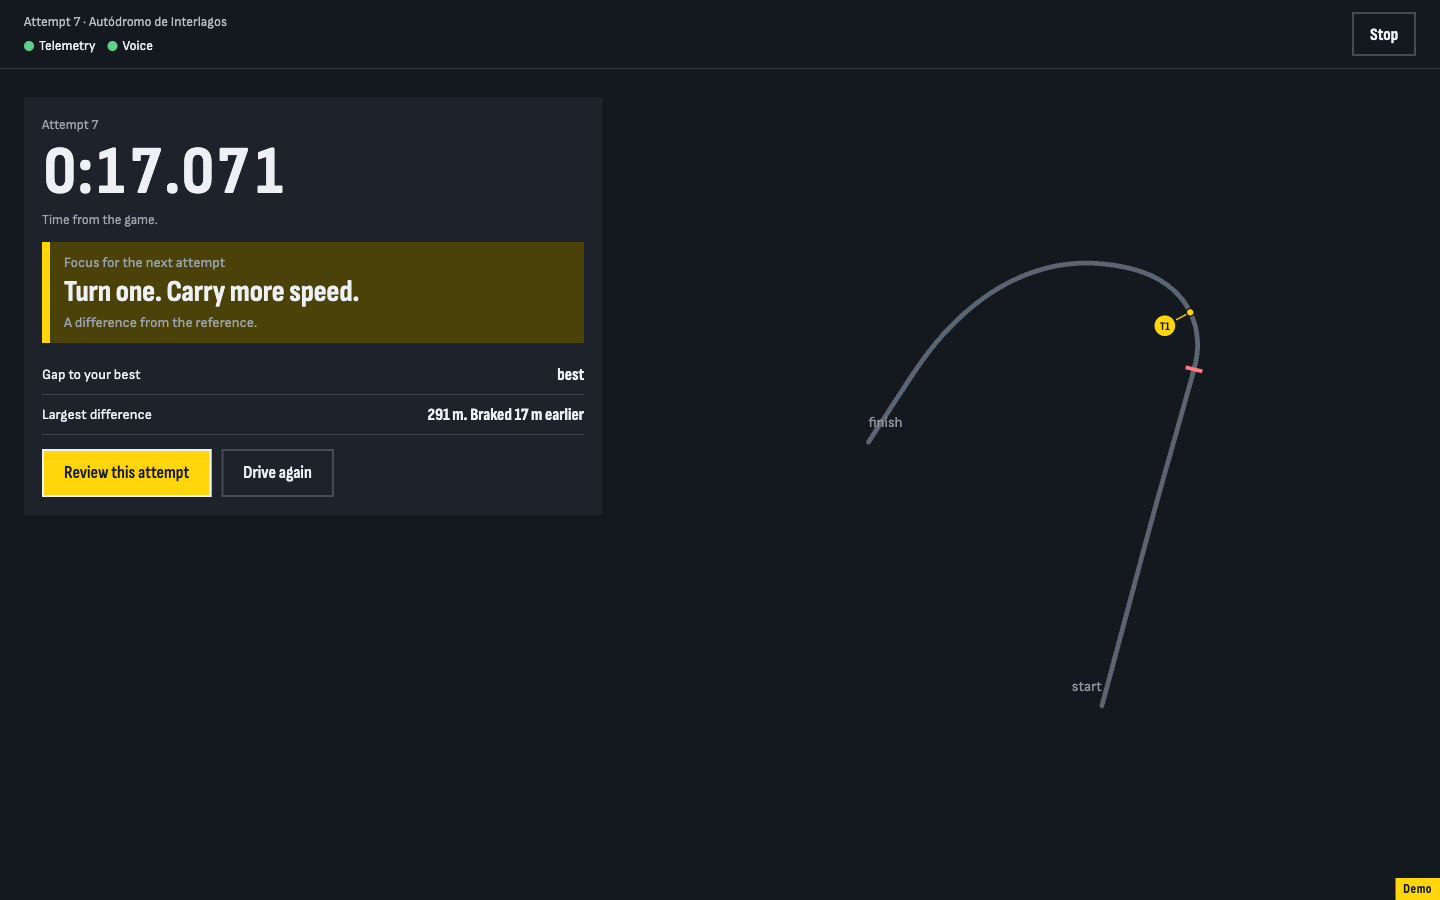
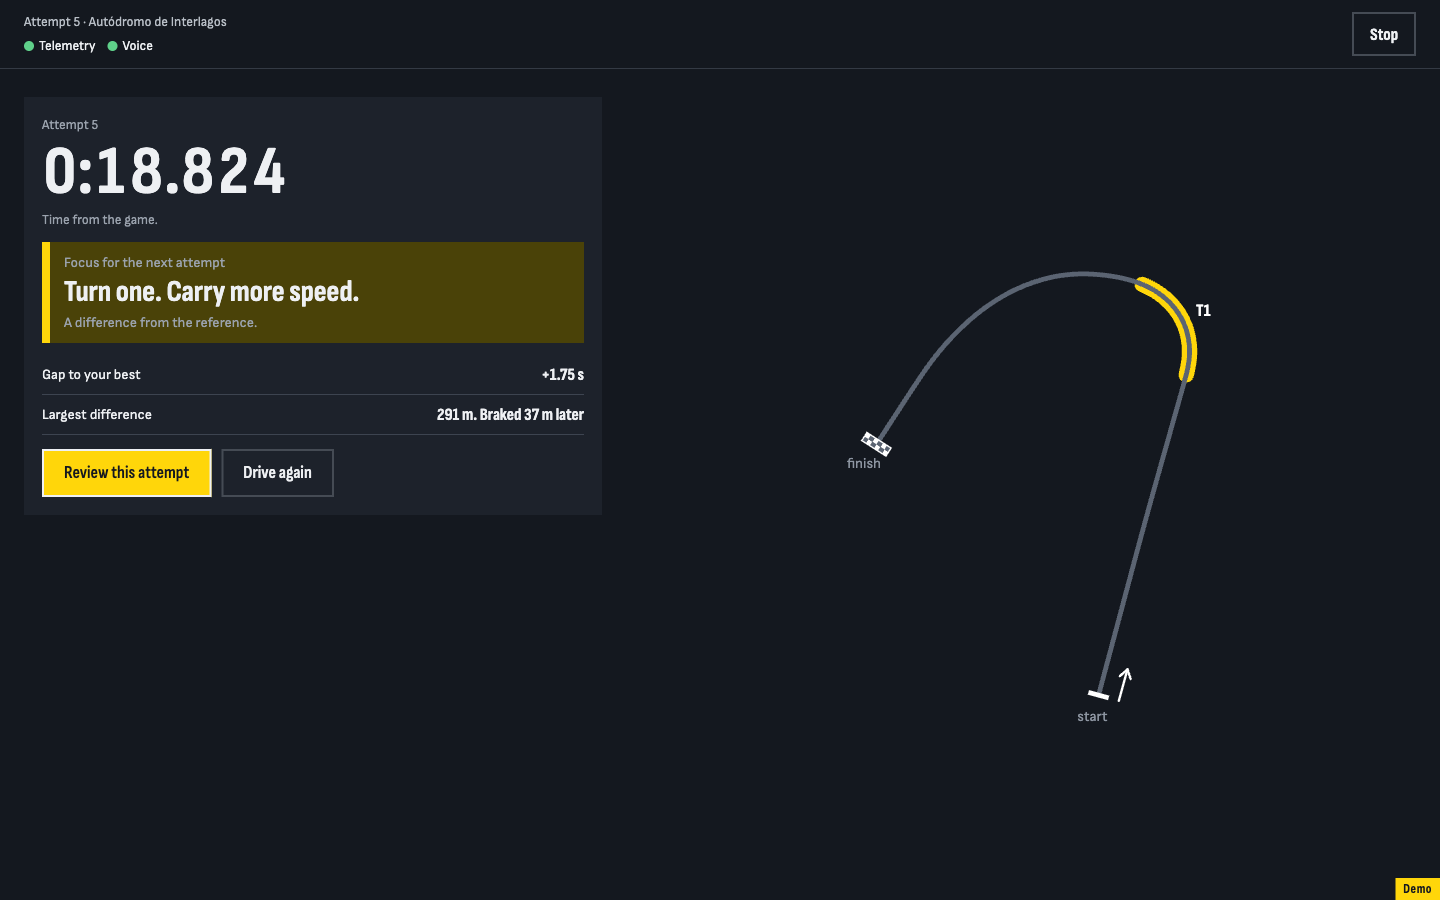
docs: show the new cue words, turn bands and track ends

diff --git a/site/index.html b/site/index.html
@@ -30,7 +30,7 @@
           <img src="assets/brand/logo-light-600.png" alt="GT7 Tutor" width="300" height="67">
         </picture>
       </p>
-      <h1><span>Hard brake.</span> <span>Full throttle.</span> <span>Tighter.</span></h1>
+      <h1><span>Hard brake.</span> <span>Full throttle.</span> <span>Closer to apex.</span></h1>
       <p class="lede">GT7 Tutor listens to your PS5 while you drive a Gran Turismo 7 exercise and calls the next action, about half a second before the place where the game's own demonstration does it. Afterwards it shows where your drive is different from that demonstration.</p>
       <div class="actions">
         <a class="button" data-link="github-setup" href="https://github.com/alex-yurchenko-85/gt7-tutor#what-you-need">Read the setup guide</a>
@@ -48,12 +48,12 @@
       <li class="brake" style="--at: 35.6%"><b>291 m</b><span>Hard brake <em>115</em></span></li>
       <li class="apex" style="--at: 49.4%"><b>404 m</b><span>T1</span></li>
       <li class="throttle" style="--at: 50.2%"><b>411 m</b><span>Full throttle</span></li>
-      <li class="brake" style="--at: 68.9%; --anchor: 100%"><b>564 m</b><span>Ease off</span></li>
+      <li class="brake" style="--at: 68.9%; --anchor: 100%"><b>564 m</b><span>Lift off</span></li>
       <li class="throttle" style="--at: 69.4%; --anchor: 0%"><b>568 m</b><span>Full throttle</span></li>
-      <li class="brake" style="--at: 96.8%; --anchor: 100%"><b>792 m</b><span>Ease off</span></li>
+      <li class="brake" style="--at: 96.8%; --anchor: 100%"><b>792 m</b><span>Lift off</span></li>
       <li class="throttle" style="--at: 97.3%; --anchor: 100%"><b>796 m</b><span>Full throttle</span></li>
     </ol>
-    <p class="strip-note">Distances from the start of the reference. Target speeds in km/h, rounded down to 5; the voice says the number only after a brake phrase. T1 marks the apex of the turn.</p>
+    <p class="strip-note">Distances from the start of the reference. Target speeds in km/h, rounded down to 5; the voice says the number only after a brake phrase, and it is the lowest speed of the reference in that place. T1 marks the apex of the turn.</p>
   </section>
 </header>
 
@@ -77,7 +77,7 @@
       <li>
         <div class="step-text">
           <h3><span class="step-number">2</span>Drive with the cues</h3>
-          <p>Select Start an attempt, then drive the exercise in the game. GT7 Tutor finds the start and the finish by itself, and your time is the time that the game gives. The screen shows the next action, your speed and the gap to the reference. The voice names the action: “Hard brake. One fifteen”, “Full throttle”, or “Tighter” when you run wide before an apex. You choose the help: the voice on a computer or a phone, no voice, or single cues muted.</p>
+          <p>Select Start an attempt, then drive the exercise in the game. GT7 Tutor finds the start and the finish by itself, and your time is the time that the game gives. The screen shows the next action, your speed and the gap to the reference. The voice names the action: “Hard brake. One fifteen”, “Full throttle”, or “Closer to apex” when you run wide before an apex. You choose the help: the voice on a computer or a phone, no voice, or single cues muted.</p>
         </div>
         <img src="assets/screenshots/drive-desktop.webp" alt="The Drive screen on a computer during a demo attempt: the cue Hard brake 115, cue 1 of 6 before turn 1, the next cue, the speed, the distance of 818 m, the gap to the reference, and the position on the reference line." width="1440" height="900" loading="lazy">
       </li>
@@ -106,7 +106,7 @@
           <h3>Get one focus after each attempt</h3>
           <p>The summary shows the time from the game, the gap to your best time and the largest difference. The voice says one focus for the next attempt, such as “Turn one. Carry more speed.”</p>
         </div>
-        <img src="assets/screenshots/summary-desktop.webp" alt="The summary after a demo attempt: the time 0:17.071 from the game, the focus for the next attempt Turn one. Carry more speed., the gap to your best and the largest difference, Braked 17 m earlier at 291 m." width="1440" height="900" loading="lazy">
+        <img src="assets/screenshots/summary-desktop.webp" alt="The summary after a demo attempt: the time 0:18.824 from the game, the focus for the next attempt Turn one. Carry more speed., the gap to your best and the largest difference, Braked 37 m later at 291 m." width="1440" height="900" loading="lazy">
       </li>
       <li>
         <div class="step-text">
